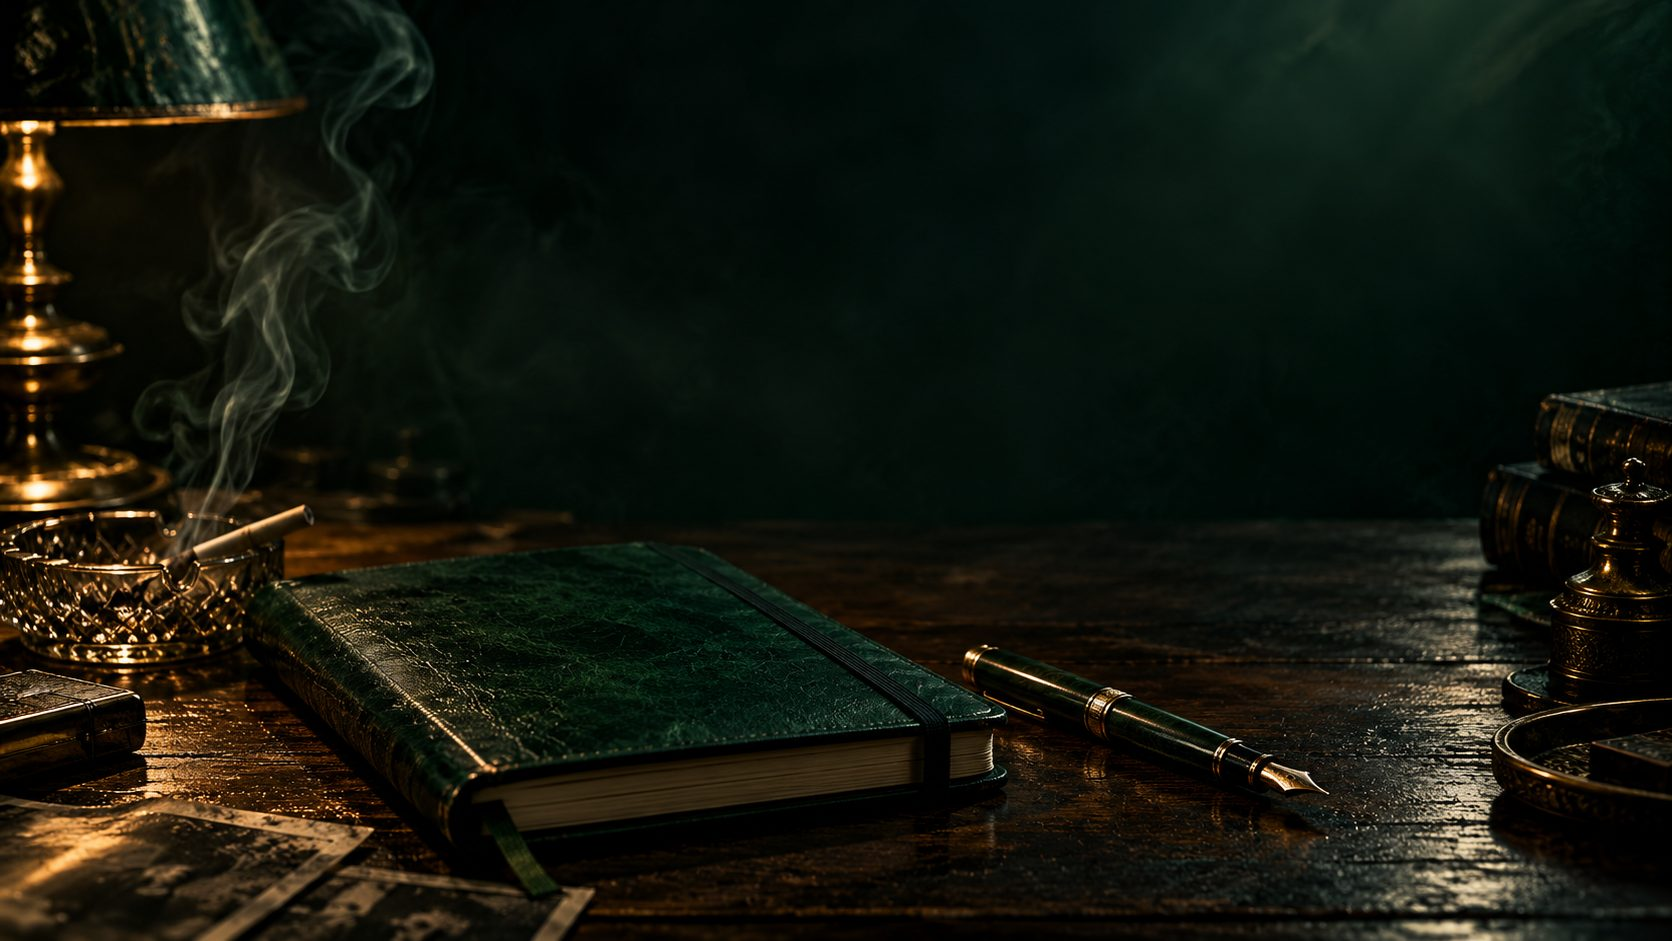
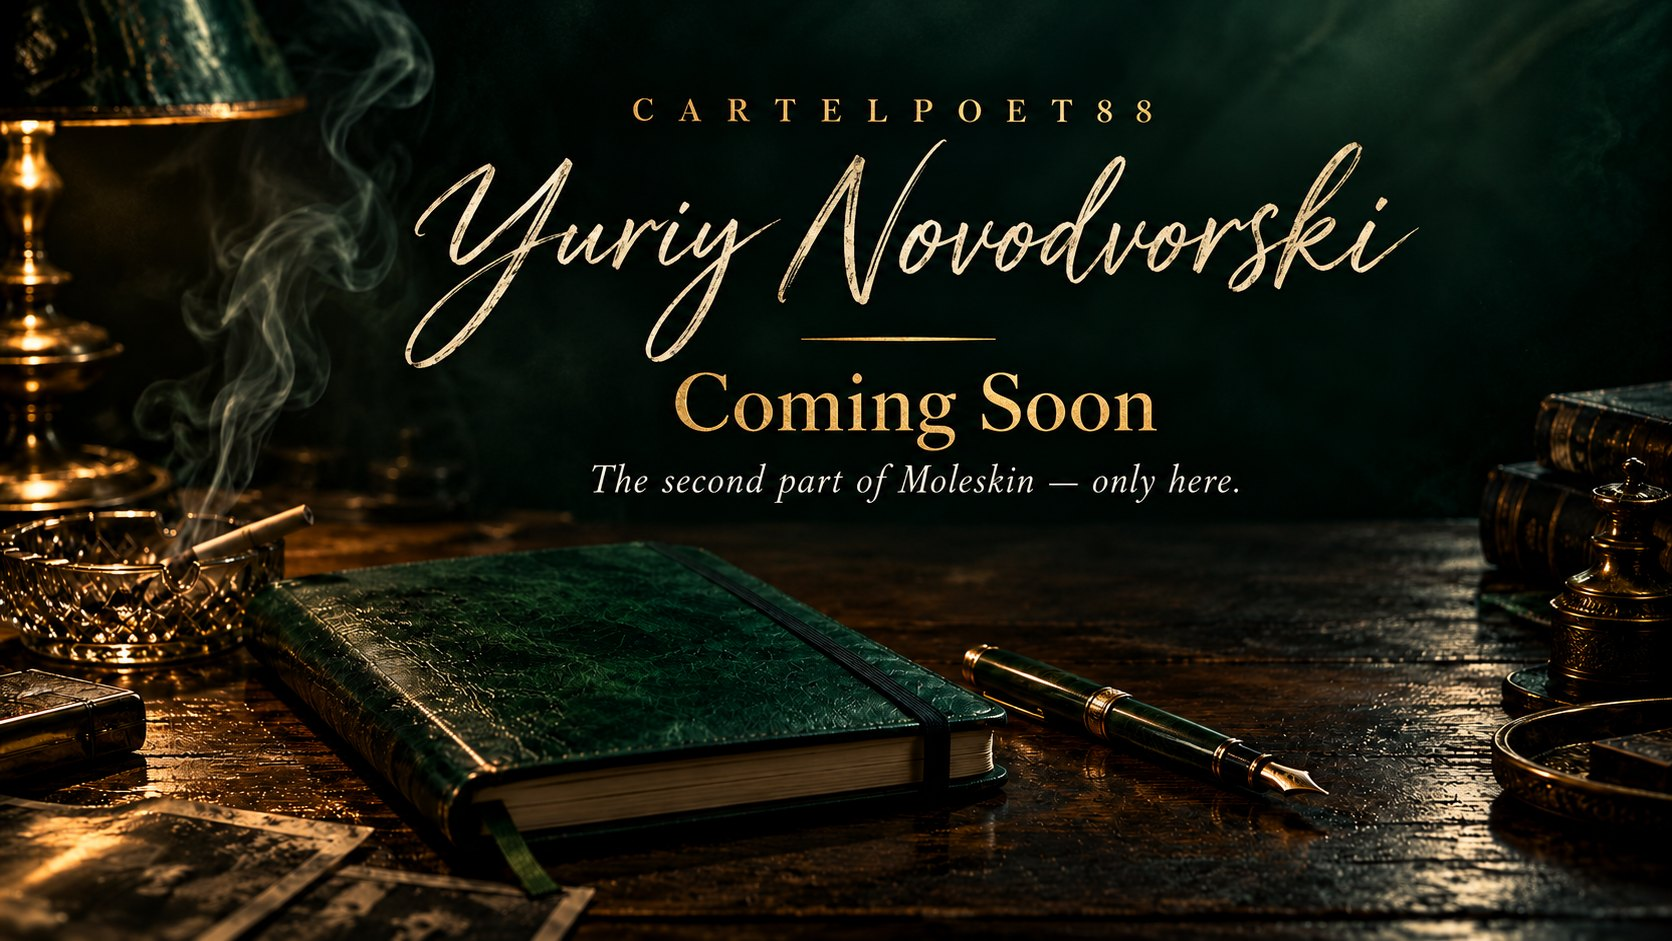
Add files via upload

diff --git a/index.html b/index.html
@@ -4,18 +4,18 @@
 <meta charset="UTF-8">
 <meta name="viewport" content="width=device-width, initial-scale=1.0">
 <title>Yuriy Novodvorski — Coming Soon · cartelpoet88</title>
-<meta name="description" content="Yuriy Novodvorski (cartelpoet88) — the second part of Moleskin and exclusive book sales, coming soon.">
+<meta name="description" content="Yuriy Novodvorski (cartelpoet88) — the second part of Moleskin, coming soon. Only here.">
 <meta property="og:title" content="Yuriy Novodvorski — Coming Soon">
-<meta property="og:description" content="The second part of Moleskin and exclusive book sales — coming very soon. Only here.">
+<meta property="og:description" content="The second part of Moleskin — only here.">
 <meta property="og:type" content="website">
 <meta property="og:image" content="banner.jpg">
 <link rel="preconnect" href="https://fonts.googleapis.com">
 <link rel="preconnect" href="https://fonts.gstatic.com" crossorigin>
-<link href="https://fonts.googleapis.com/css2?family=Playfair+Display:ital,wght@0,500;0,600&family=PT+Serif:ital,wght@0,400;1,400&family=Caveat:wght@500;600;700&display=swap" rel="stylesheet">
+<link href="https://fonts.googleapis.com/css2?family=PT+Serif:wght@400;700&display=swap" rel="stylesheet">
 <style>
   :root{
     --cream:#efe9db;
-    --green-deep:#13261f;
+    --dark:#0e1a15;
     --gold:#c3a35a;
     --gold-soft:#d8bd80;
   }
@@ -24,91 +24,43 @@
   body{
     font-family:'PT Serif',Georgia,serif;
     color:var(--cream);
-    background:var(--green-deep);
+    background:var(--dark);
     -webkit-font-smoothing:antialiased;
     min-height:100%;
     overflow-x:hidden;
   }
   .stage{
     position:relative;min-height:100vh;min-height:100svh;
-    display:flex;align-items:center;justify-content:center;
-    text-align:center;padding:48px 24px;
-    isolation:isolate;
+    display:flex;align-items:flex-end;justify-content:center;
+    padding:0 24px 7vh;
+    background:var(--dark) url("banner.jpg") center center / cover no-repeat;
   }
-  /* Background banner */
-  .stage::before{
-    content:"";position:absolute;inset:0;z-index:-2;
-    background:url("banner.jpg") center center / cover no-repeat;
+  /* On portrait / narrow screens show the whole banner (text intact), letterboxed on the dark bg */
+  @media (max-aspect-ratio: 3/2){
+    .stage{background-size:contain;align-items:center}
+    .cta{position:absolute;bottom:7vh}
   }
-  .stage::after{
-    content:"";position:absolute;inset:0;z-index:-1;
-    background:
-      radial-gradient(62% 60% at 50% 50%, rgba(10,20,16,.74) 0%, rgba(10,20,16,.5) 70%, rgba(10,20,16,.68) 100%),
-      linear-gradient(180deg, rgba(19,38,31,.45), rgba(19,38,31,.62));
-  }
-  .inner{max-width:720px;width:100%}
-  .eyebrow{
-    font-size:.78rem;letter-spacing:.42em;text-transform:uppercase;
-    color:var(--gold);font-weight:700;margin-bottom:30px;padding-left:.42em;
-    opacity:0;animation:fade .9s ease .15s forwards;
-  }
-  .name{
-    font-family:'Caveat',cursive;
-    font-size:clamp(3.8rem,13vw,7.4rem);
-    line-height:.95;color:var(--cream);font-weight:600;
-    text-shadow:0 2px 34px rgba(0,0,0,.6);
-    opacity:0;animation:fade 1s ease .3s forwards;
-  }
-  .divider{
-    width:70px;height:1px;background:var(--gold);margin:30px auto;opacity:0;
-    animation:grow 1s ease .6s forwards;
-  }
-  .soon{
-    font-family:'Playfair Display',serif;font-weight:500;
-    font-size:clamp(1.5rem,4vw,2.3rem);letter-spacing:.02em;color:var(--gold-soft);
-    text-shadow:0 2px 20px rgba(0,0,0,.5);
-    opacity:0;animation:fade 1s ease .7s forwards;
-  }
-  .lede{
-    margin:22px auto 0;max-width:480px;font-size:1.08rem;line-height:1.7;
-    color:rgba(239,233,219,.86);font-style:italic;
-    text-shadow:0 1px 14px rgba(0,0,0,.55);
-    opacity:0;animation:fade 1s ease .9s forwards;
-  }
-  .cta{
-    margin-top:40px;display:flex;gap:16px;justify-content:center;flex-wrap:wrap;
-    opacity:0;animation:fade 1s ease 1.1s forwards;
-  }
+  .cta{opacity:0;animation:fade 1.1s ease .5s forwards}
   .btn{
     display:inline-block;text-decoration:none;font-size:.78rem;letter-spacing:.16em;
-    text-transform:uppercase;padding:15px 30px;transition:all .3s;
+    text-transform:uppercase;padding:16px 34px;transition:all .3s;
+    background:var(--gold);color:var(--dark);font-weight:700;
+    box-shadow:0 10px 30px -10px rgba(0,0,0,.7);
   }
-  .btn-gold{background:var(--gold);color:var(--green-deep);font-weight:700}
-  .btn-gold:hover{background:var(--gold-soft)}
-  .btn-line{border:1px solid rgba(214,189,128,.6);color:var(--gold-soft);backdrop-filter:blur(2px)}
-  .btn-line:hover{border-color:var(--gold);background:rgba(195,163,90,.14)}
+  .btn:hover{background:var(--gold-soft);transform:translateY(-2px)}
   .foot{
-    position:absolute;bottom:26px;left:0;right:0;text-align:center;
-    font-size:.74rem;letter-spacing:.14em;color:rgba(239,233,219,.55);
-    opacity:0;animation:fade 1s ease 1.4s forwards;
+    position:absolute;bottom:20px;left:0;right:0;text-align:center;
+    font-size:.72rem;letter-spacing:.14em;color:rgba(239,233,219,.45);
+    opacity:0;animation:fade 1s ease 1s forwards;
   }
-  @keyframes fade{to{opacity:1;transform:none}}
-  @keyframes grow{from{opacity:0;transform:scaleX(.2)}to{opacity:1;transform:scaleX(1)}}
+  @keyframes fade{from{opacity:0;transform:translateY(12px)}to{opacity:1;transform:none}}
   @media(prefers-reduced-motion:reduce){*{animation:none!important;opacity:1!important}}
 </style>
 </head>
 <body>
   <div class="stage">
-    <div class="inner">
-      <div class="eyebrow">cartelpoet88</div>
-      <div class="name">Yuriy Novodvorski</div>
-      <div class="divider"></div>
-      <div class="soon">Coming Soon</div>
-      <p class="lede">The second part of “Moleskin” and exclusive book sales. Only here.</p>
-      <div class="cta">
-        <a href="https://www.instagram.com/cartelpoet88/" target="_blank" rel="noopener" class="btn btn-gold">Follow on Instagram</a>
-        <a href="https://www.yakaboo.ua/ua/moleskin-2351846.html" target="_blank" rel="noopener" class="btn btn-line">“Moleskin” on Yakaboo</a>
-      </div>
+    <div class="cta">
+      <a href="https://www.instagram.com/cartelpoet88/" target="_blank" rel="noopener" class="btn">Follow on Instagram</a>
     </div>
     <div class="foot">© <span id="y"></span> · Yuriy Novodvorski · 18+</div>
   </div>
